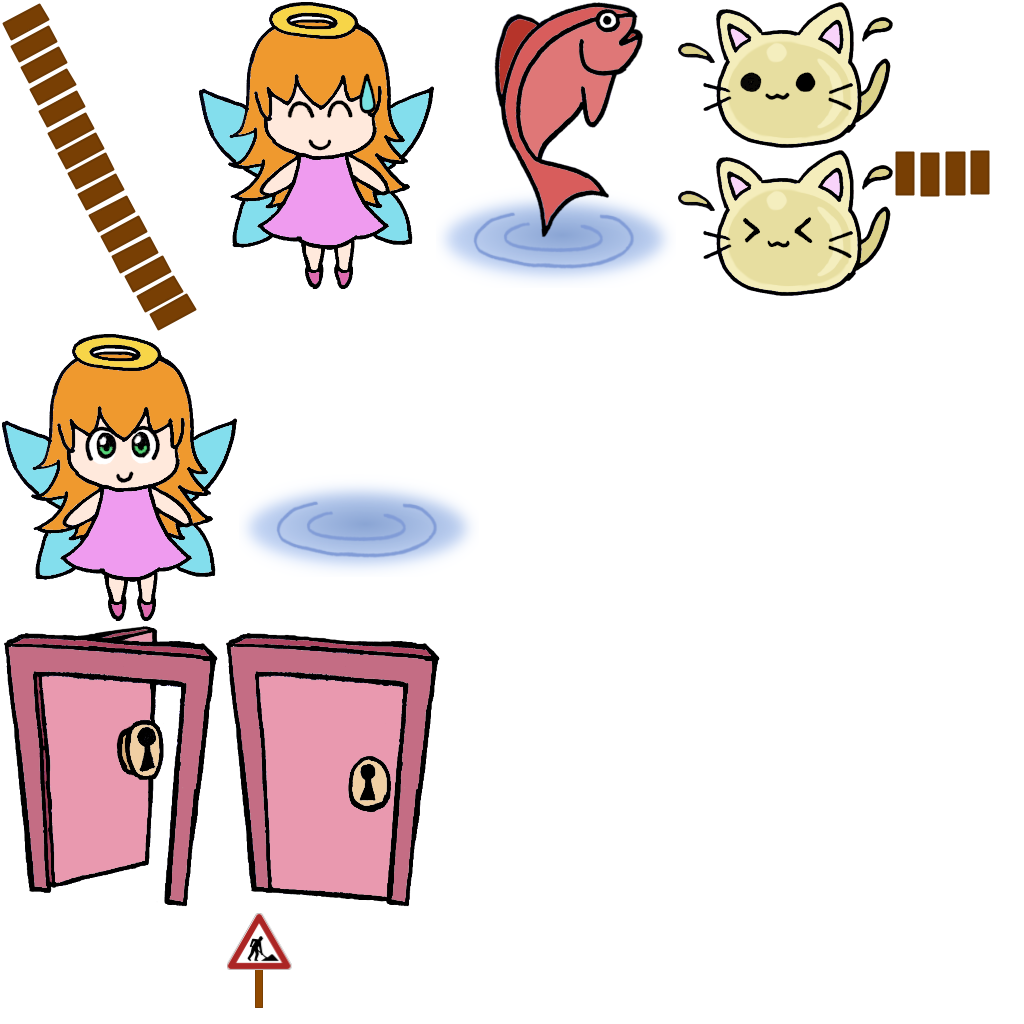
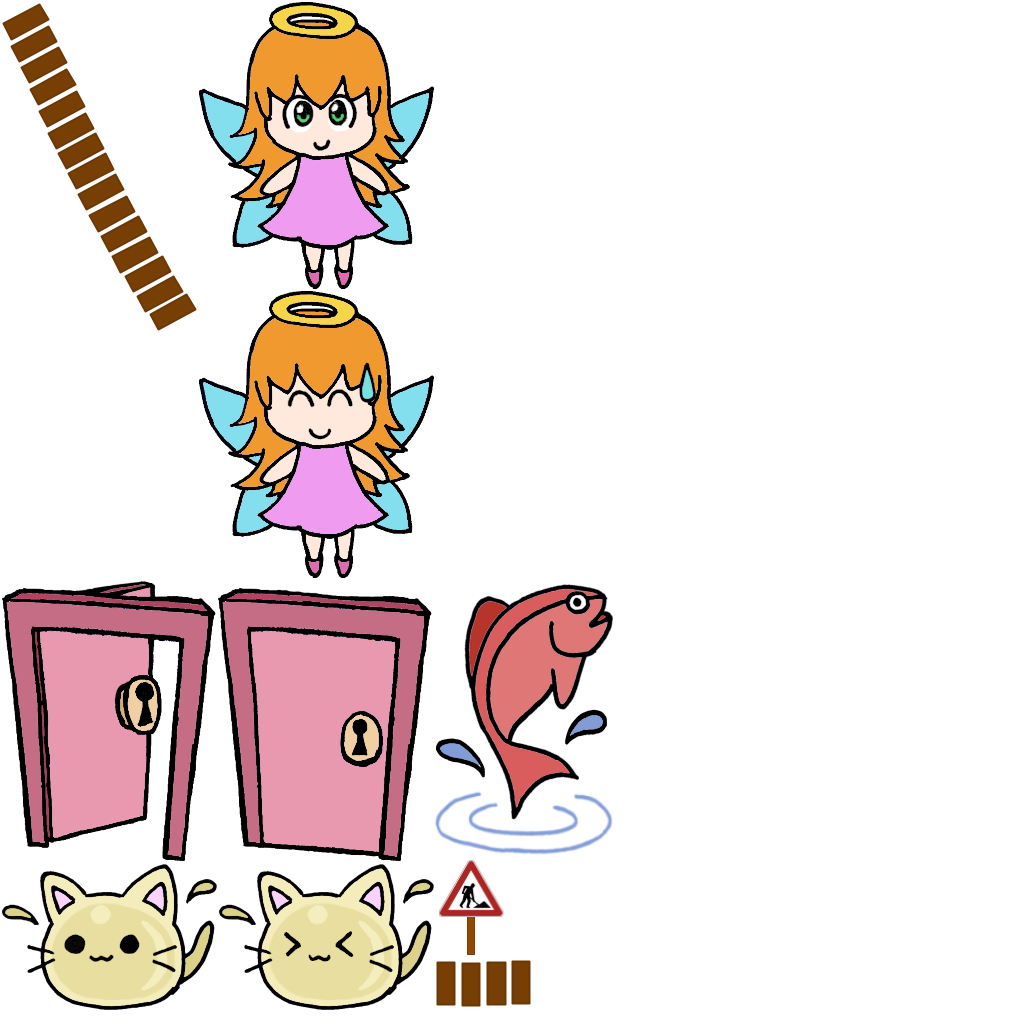
Removed one fish sprite

diff --git a/img/sheet.css b/img/sheet.css
@@ -3,42 +3,38 @@
   width: 195px; height: 330px;
 }
 .map-bridgeC {
-  background-position: -895px -150px;
+  background-position: -436px -960px;
   width: 95px; height: 47px;
 }
 .map-construction {
-  background-position: -224px -911px;
+  background-position: -436px -858px;
   width: 70px; height: 100px;
 }
 .npc-cat-0 {
-  background-position: -678px -2px;
+  background-position: -2px -864px;
   width: 215px; height: 146px;
 }
 .npc-cat-1 {
-  background-position: -678px -150px;
+  background-position: -219px -864px;
   width: 215px; height: 146px;
 }
 .npc-door-0 {
-  background-position: -224px -623px;
-  width: 220px; height: 286px;
+  background-position: -218px -580px;
+  width: 214px; height: 282px;
 }
 .npc-door-1 {
-  background-position: -2px -623px;
-  width: 220px; height: 286px;
+  background-position: -2px -580px;
+  width: 214px; height: 282px;
 }
 .npc-fairy-0 {
-  background-position: -2px -334px;
-  width: 235px; height: 287px;
-}
-.npc-fairy-1 {
   background-position: -199px -2px;
   width: 235px; height: 287px;
 }
-.npc-fish-0 {
-  background-position: -436px -2px;
-  width: 240px; height: 286px;
+.npc-fairy-1 {
+  background-position: -199px -291px;
+  width: 235px; height: 287px;
 }
-.npc-fish-1 {
-  background-position: -239px -291px;
-  width: 240px; height: 286px;
+.npc-fish-0 {
+  background-position: -434px -580px;
+  width: 181px; height: 276px;
 }

diff --git a/style.css b/style.css
@@ -229,7 +229,7 @@ div.scene {
 
 #npc-pic-wrapper {
   position: absolute;
-  left: 0; top: 80px; width: 240px; height: 320px;
+  left: 0; top: 70px; width: 240px; height: 330px;
   opacity: 1;
   transition: transform 500ms, opacity 500ms;
 }
